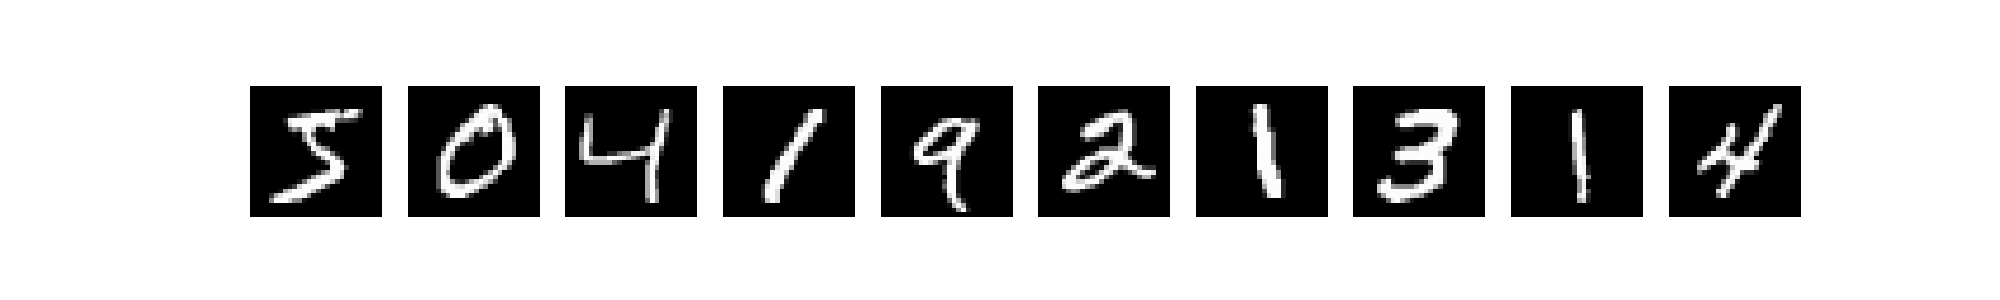
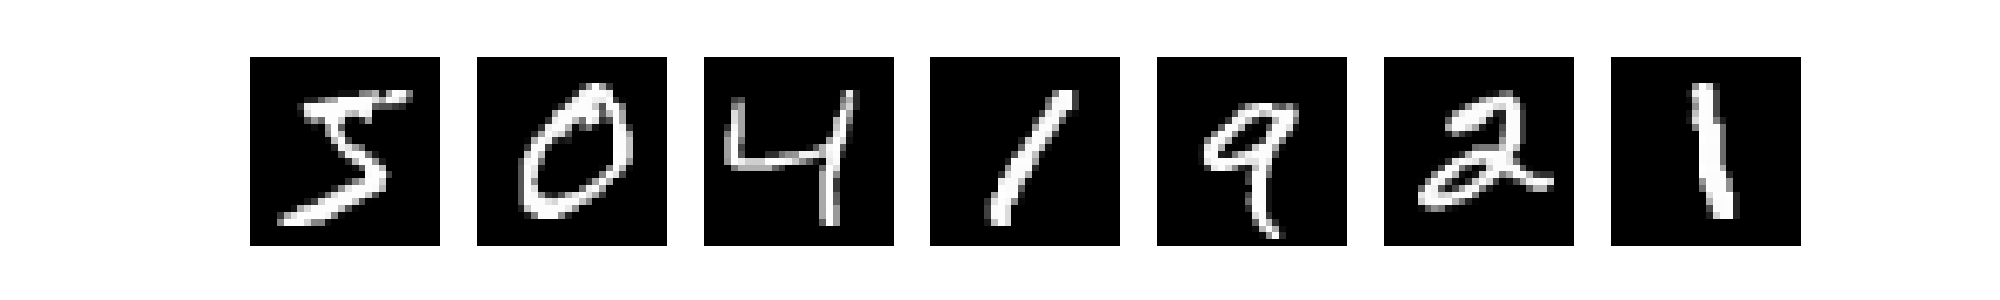
added TensorModel class and code cleanup

Changed region(s): [[0.124, 0.18, 0.899, 0.84]]

diff --git a/main.py b/main.py
@@ -1,148 +1,67 @@
 import numpy as np
 import matplotlib.pyplot as plt
-import tensorflow as tf
 
-from tensorflow import keras
-from tensorflow.keras.models import Sequential
-from tensorflow.keras.layers import Conv2D, MaxPooling2D, Flatten, Dense
-
-from sklearn.metrics import accuracy_score
-from sklearn.linear_model import LogisticRegression
+from include.TensorModel import TensorModel
 
 IMAGE_DIRECTORY = 'images/'
-USE_TENSORFLOW = True
-
-# Preprocess the data
-def preprocess_data(x_train: np.ndarray, x_test: np.ndarray) -> tuple:
-    # Normalize the data
-    x_train = x_train / 255.0
-    x_test = x_test / 255.0
-
-    # Convert the 2D images to 1D of size 784
-    x_train_flat = x_train.reshape(x_train.shape[0], -1)
-    x_test_flat = x_test.reshape(x_test.shape[0], -1)
-
-    # Log the shapes of the data
-    print(f"Shape of x_train_flat: {x_train_flat.shape}")
-    print(f"Shape of x_test_flat: {x_test_flat.shape}")
-
-    return x_train_flat, x_test_flat
-
-# Preprocess data for CNN
-def preprocess_data_cnn(x_train: np.ndarray, x_test: np.ndarray) -> tuple:
-    # Normalize the data
-    x_train = x_train / 255.0
-    x_test = x_test / 255.0
-
-    # Convert the 2D images to 3D of size 28x28x1
-    x_train = x_train.reshape(-1, 28, 28, 1)
-    x_test = x_test.reshape(-1, 28, 28, 1)
-
-    # Log the shapes of the data
-    print(f"Shape of x_train: {x_train.shape}")
-    print(f"Shape of x_test: {x_test.shape}")
-
-    return x_train, x_test
-
-# Load the dataset
-def load_data(choice: int) -> tuple:
-    # Load the MNIST dataset
-    (x_train, y_train), (x_test, y_test) = keras.datasets.mnist.load_data()
-    
-    # Preprocess the data
-    if(choice == 1):
-        x_train_flat, x_test_flat = preprocess_data(x_train, x_test)
-    elif(choice == 2):
-        x_train_flat, x_test_flat = preprocess_data_cnn(x_train, x_test)
-    else:
-        pass
-
-    return (x_train_flat, y_train), (x_test_flat, y_test)
+NUM_DISPLAYED_SAMPLES = 7
 
 # Display some sample images
 def display_sample_images(x_train: np.ndarray):
-    fig, axes = plt.subplots(1, 10, figsize=(20, 3))
-    for i in range(10):
+    fig, axes = plt.subplots(1, NUM_DISPLAYED_SAMPLES, figsize=(20, 3))
+    for i in range(NUM_DISPLAYED_SAMPLES):
         axes[i].imshow(x_train[i].reshape(28, 28), cmap='gray')
         axes[i].axis('off')
     plt.savefig(f"{IMAGE_DIRECTORY}sample_images.png")
 
-# Create logistic regression model
-def create_logistic_regression_model(x_train: np.ndarray, y_train: np.ndarray) -> LogisticRegression:
-    model = LogisticRegression(max_iter=1000, solver='saga', multi_class='multinomial')
-    model.fit(x_train, y_train)
-
-    return model
-
-# Create logistic regression model using TensorFlow
-def tensor_create_logistic_regression_model() -> tf.keras.Model:
-    model = tf.keras.Sequential([
-        tf.keras.layers.Input(shape=(784,)),
-        tf.keras.layers.Dense(10, activation='softmax')
-    ])
-
-    # Compile the model
-    model.compile(optimizer='adam', loss='sparse_categorical_crossentropy', metrics=['accuracy'])
-    model.summary()
-
-    return model
-
-# Create CNN model using TensorFlow
-def create_cnn_model() -> tf.keras.Model:
-    # Define the CNN model
-    model = Sequential([
-        Conv2D(32, (3, 3), activation='relu', input_shape=(28, 28, 1)), # 32 filters, 3x3 kernel
-        MaxPooling2D((2, 2)),                                           # Reduce the size of the image by half
-        Conv2D(64, (3, 3), activation='relu'),                          # 64 filters, 3x3 kernel
-        MaxPooling2D((2, 2)),                                           # Reduce the size of the image by half
-        Flatten(),                                                      # Flatten the 2D array to 1D
-        Dense(128, activation='relu'),                                  # Fully connected layer with 128 units
-        Dense(10, activation='softmax')                                 # Output layer with 10 units
-    ])
-
-    # Compile the model
-    model.compile(optimizer='adam', loss='sparse_categorical_crossentropy', metrics=['accuracy'])
-    model.summary()
-
-    return model
-
 if __name__ == "__main__":
     # Choose the model to use
     choice = int(input("Enter 1 for Logistic Regression, 2 for CNN: "))
+
+    # Initialise model handler
+    model_handler = TensorModel(IMAGE_DIRECTORY, NUM_DISPLAYED_SAMPLES)
     
     # Load the dataset
-    (x_train, y_train), (x_test, y_test) = load_data(choice)
+    (x_train, y_train), (x_test, y_test) = model_handler.load_data(choice)
 
     # Display some sample images
     display_sample_images(x_train)
 
-    # Ensure GPU is available
-    print("Num GPUs Available:", len(tf.config.list_physical_devices('GPU')))
-
-    if(USE_TENSORFLOW == False):
-        # Get logistic regression model using scikit-learn
-        logistic_regression_model = create_logistic_regression_model(x_train, y_train)
-        y_pred = logistic_regression_model.predict(x_test)
-        accuracy = accuracy_score(y_test, y_pred)
-        print(f"Logistic Regression Accuracy: {accuracy * 100:.2f}%")
-
     # Determine the model to use
-    str_model = ""
-    test_acc = 0.0
+    str_model: str = ""
+    test_acc: float = 0.0
+    y_pred: np.ndarray = None
     if choice == 1:
         # Get logistic regression model using TensorFlow
         str_model = "Logistic Regression"
-        tensor_model = tensor_create_logistic_regression_model()
-        tensor_model.fit(x_train, y_train, epochs=10, batch_size=32, validation_data=(x_test, y_test))
-        test_loss, test_acc = tensor_model.evaluate(x_test, y_test)
+        logistic_reg_model = model_handler.tensor_create_logistic_regression_model()
+        logistic_reg_model.fit(x_train, y_train, epochs=10, batch_size=32, validation_data=(x_test, y_test))
+        test_loss, test_acc = logistic_reg_model.evaluate(x_test, y_test)
+        y_pred = model_handler.tensor_predict(logistic_reg_model, x_test, NUM_DISPLAYED_SAMPLES)
     elif choice == 2:
         # Get CNN model using TensorFlow
         str_model = "CNN"
-        cnn_model = create_cnn_model()
+        cnn_model = model_handler.tensor_create_cnn_model()
         cnn_model.fit(x_train, y_train, epochs=10, batch_size=32, validation_data=(x_test, y_test))
         test_loss, test_acc = cnn_model.evaluate(x_test, y_test)
+        y_pred = model_handler.tensor_predict(cnn_model, x_test, NUM_DISPLAYED_SAMPLES)
     else:
         pass
-
     print(f"{str_model} Model Accuracy: {test_acc * 100:.2f}%")
+
+    # Display results
+    fig, axes = plt.subplots(1, NUM_DISPLAYED_SAMPLES, figsize=(10, 3))
+    for i, ax in enumerate(axes):
+        # Determine the model
+        if choice == 1:
+            ax.imshow(x_test[i].reshape(28, 28), cmap='gray')
+        elif choice == 2:
+            ax.imshow(x_test[i], cmap='gray')
+        else:
+            pass
+
+        ax.set_title(f"Predicted: {np.argmax(y_pred[i])}")
+        ax.axis("off")
+    plt.savefig(f"{IMAGE_DIRECTORY}{str_model}_sample_images.png")
+    
     print("Done!")

diff --git a/include/TensorModel.py b/include/TensorModel.py
@@ -1,0 +1,60 @@
+import numpy as np
+import tensorflow as tf
+from tensorflow import keras
+from tensorflow.keras.models import Sequential
+from tensorflow.keras.layers import Conv2D, MaxPooling2D, Flatten, Dense
+
+class TensorModel:
+    def __init__(self, image_directory='images/', num_displayed_samples=7):
+        self.IMAGE_DIRECTORY = image_directory
+        self.NUM_DISPLAYED_SAMPLES = num_displayed_samples
+
+        # Ensure GPU is available
+        print("Num GPUs Available:", len(tf.config.list_physical_devices('GPU')))
+
+    def _preprocess_data_linear_reg(self, x_train: np.ndarray, x_test: np.ndarray) -> tuple:
+        x_train = x_train / 255.0
+        x_test = x_test / 255.0
+        x_train_flat = x_train.reshape(x_train.shape[0], -1)
+        x_test_flat = x_test.reshape(x_test.shape[0], -1)
+        return x_train_flat, x_test_flat
+
+    def _preprocess_data_cnn(self, x_train: np.ndarray, x_test: np.ndarray) -> tuple:
+        x_train = x_train / 255.0
+        x_test = x_test / 255.0
+        x_train = x_train.reshape(-1, 28, 28, 1)
+        x_test = x_test.reshape(-1, 28, 28, 1)
+        return x_train, x_test
+
+    def load_data(self, choice: int) -> tuple:
+        (x_train, y_train), (x_test, y_test) = keras.datasets.mnist.load_data()
+        if choice == 1:
+            x_train, x_test = self._preprocess_data_linear_reg(x_train, x_test)
+        elif choice == 2:
+            x_train, x_test = self._preprocess_data_cnn(x_train, x_test)
+        return (x_train, y_train), (x_test, y_test)
+
+    def tensor_create_logistic_regression_model(self) -> tf.keras.Model:
+        model = tf.keras.Sequential([
+            tf.keras.layers.Input(shape=(784,)),
+            tf.keras.layers.Dense(10, activation='softmax')
+        ])
+        model.compile(optimizer='adam', loss='sparse_categorical_crossentropy', metrics=['accuracy'])
+        return model
+
+    def tensor_create_cnn_model(self) -> tf.keras.Model:
+        model = Sequential([
+            Conv2D(32, (3, 3), activation='relu', input_shape=(28, 28, 1)),
+            MaxPooling2D((2, 2)),
+            Conv2D(64, (3, 3), activation='relu'),
+            MaxPooling2D((2, 2)),
+            Flatten(),
+            Dense(128, activation='relu'),
+            Dense(10, activation='softmax')
+        ])
+        model.compile(optimizer='adam', loss='sparse_categorical_crossentropy', metrics=['accuracy'])
+        return model
+
+    def tensor_predict(self, model: tf.keras.Model, x_test: np.ndarray, num_samples=5) -> np.ndarray:
+        y_pred = model.predict(x_test[:num_samples])
+        return y_pred
